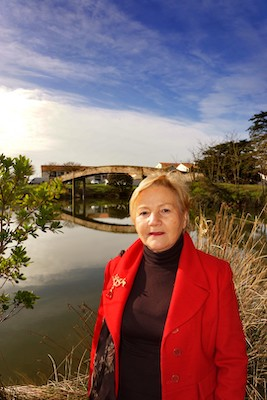
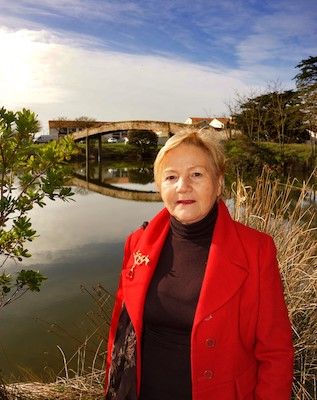
Update Landing Pages “pricing”

diff --git a/content/pricing.md b/content/pricing.md
@@ -5,13 +5,10 @@ sections:
     type: section_hero
   - bg: white
     pricingplans:
-      - details: >-
-          ![Yves
-          Mathias](/images/320x240_yves-mathias-conseiller-municipal-5588.jpg
-          "Yves Mathias")
+      - details: |-
+          ![Yves Mathias](/images/Yves Mathias.jpg "Yves Mathias")
 
-
-          Yves Mathias
+          65 ans, Tête de liste
         highlight: true
         title: Yves Mathias
     section_id: Tête de liste
